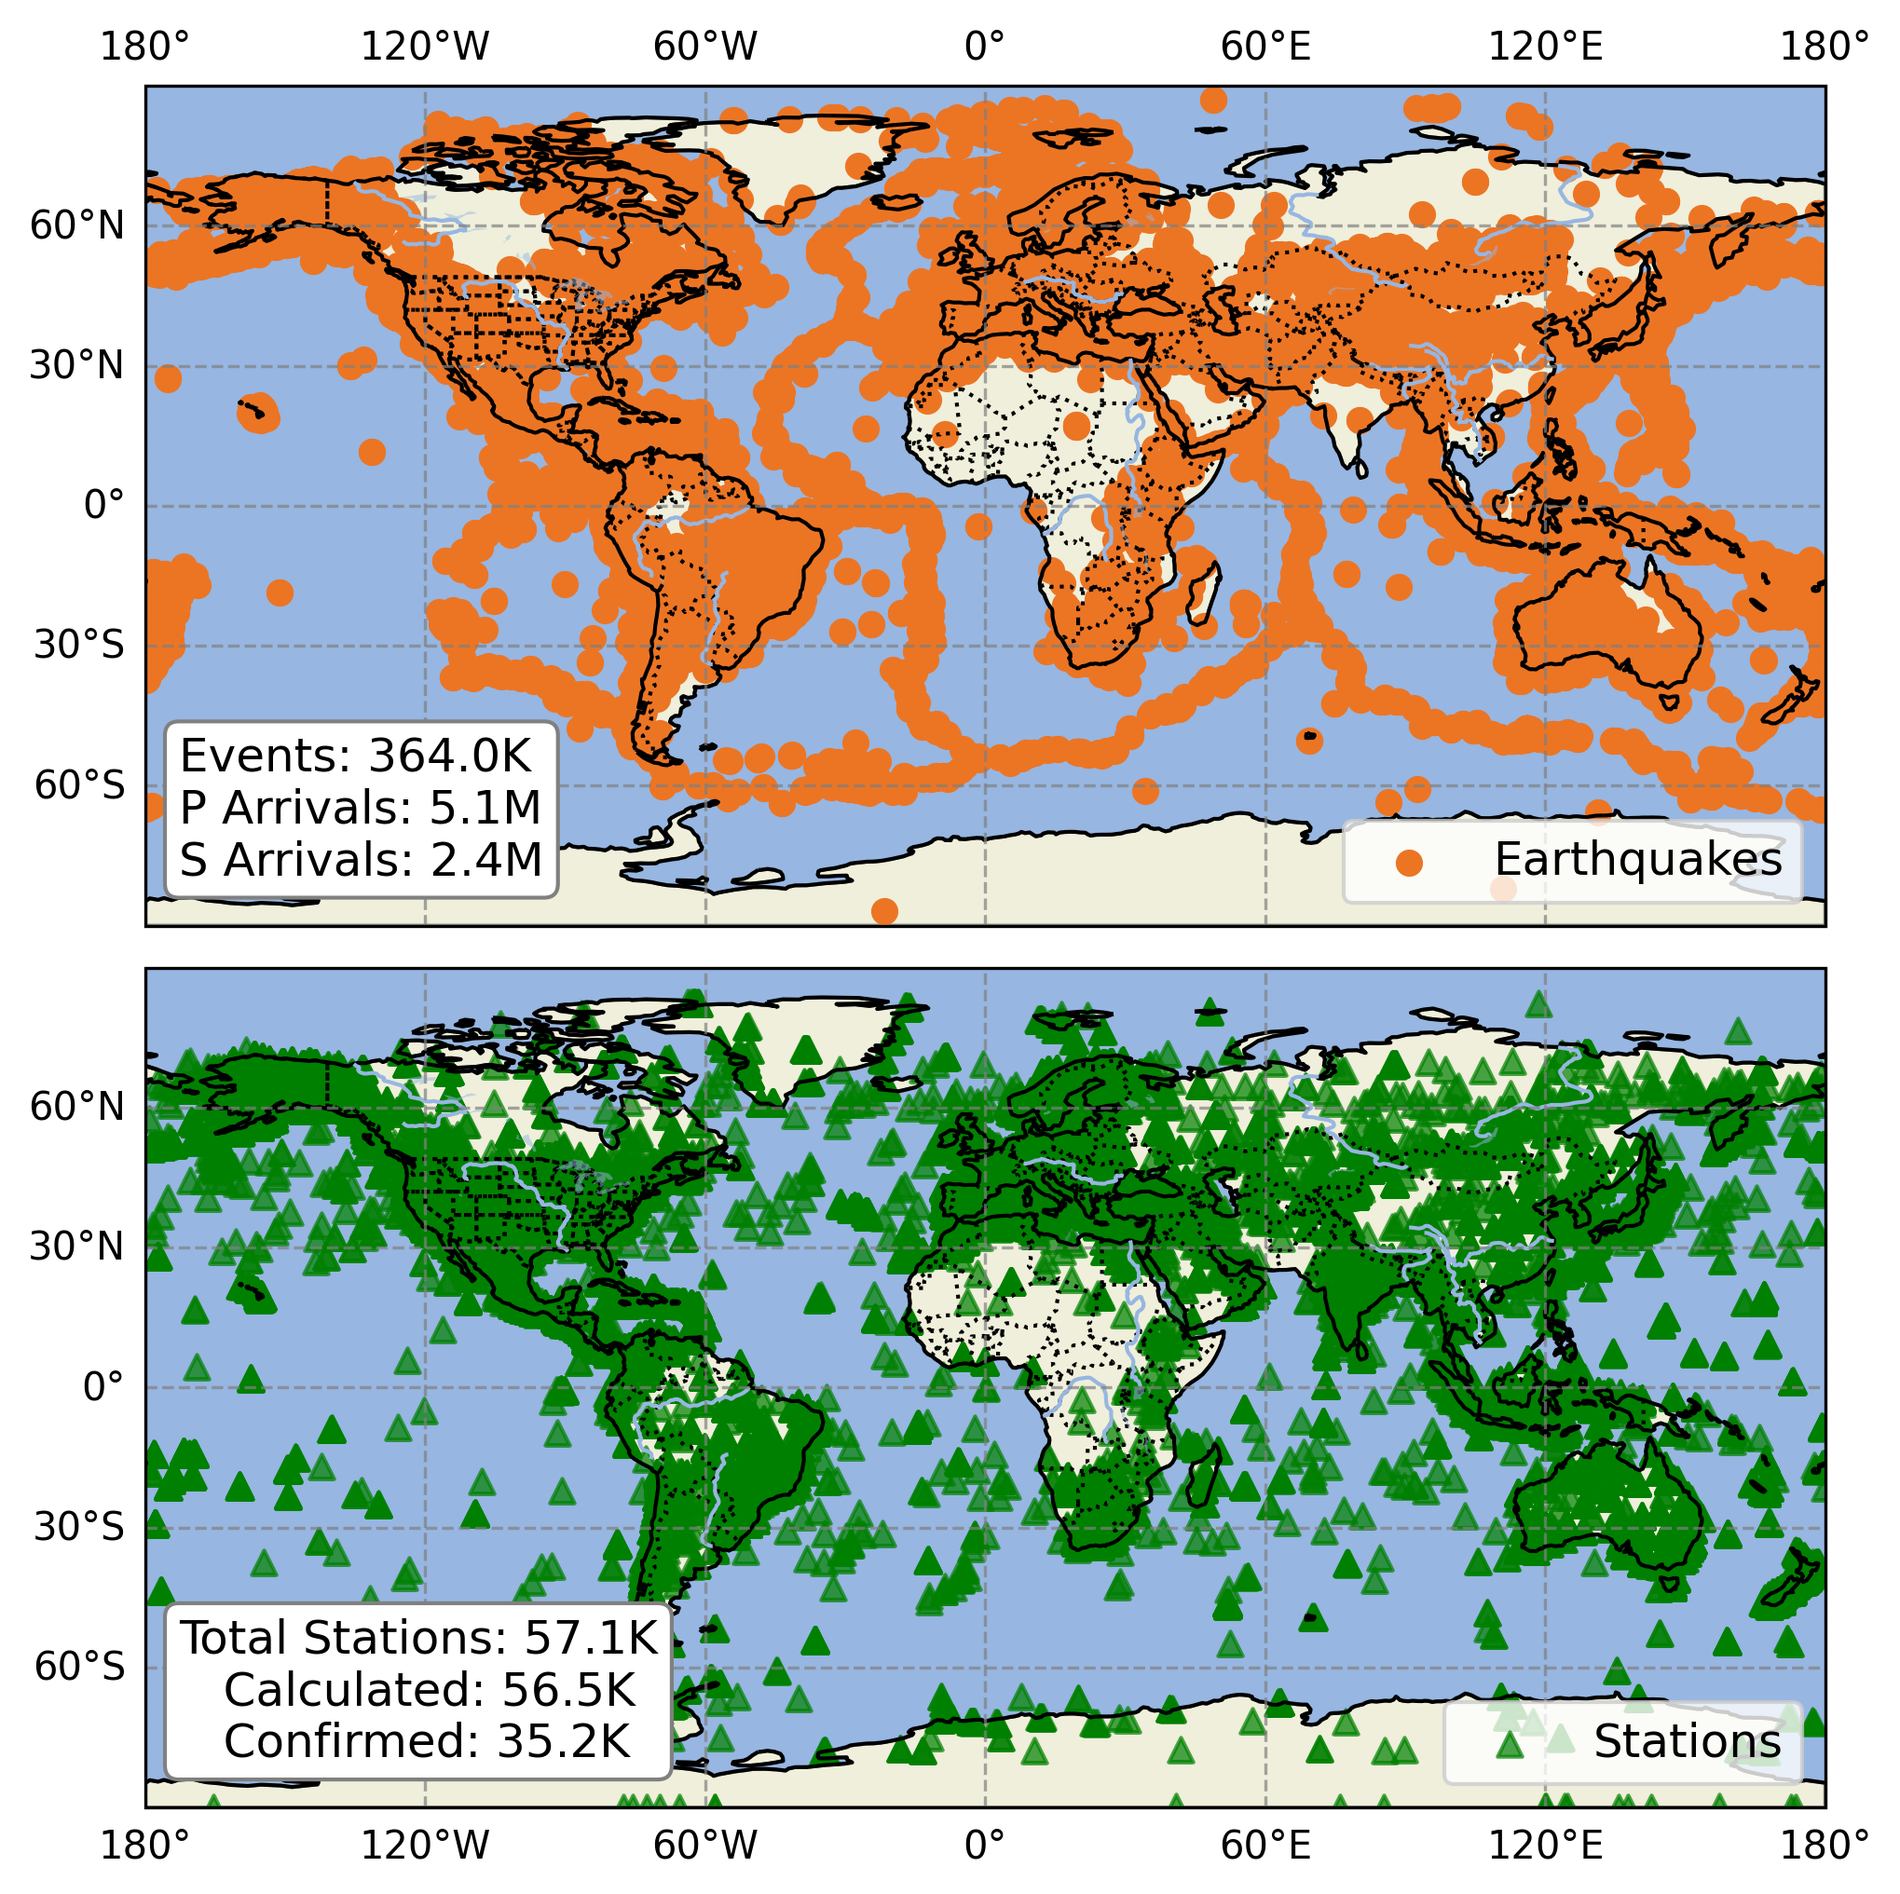
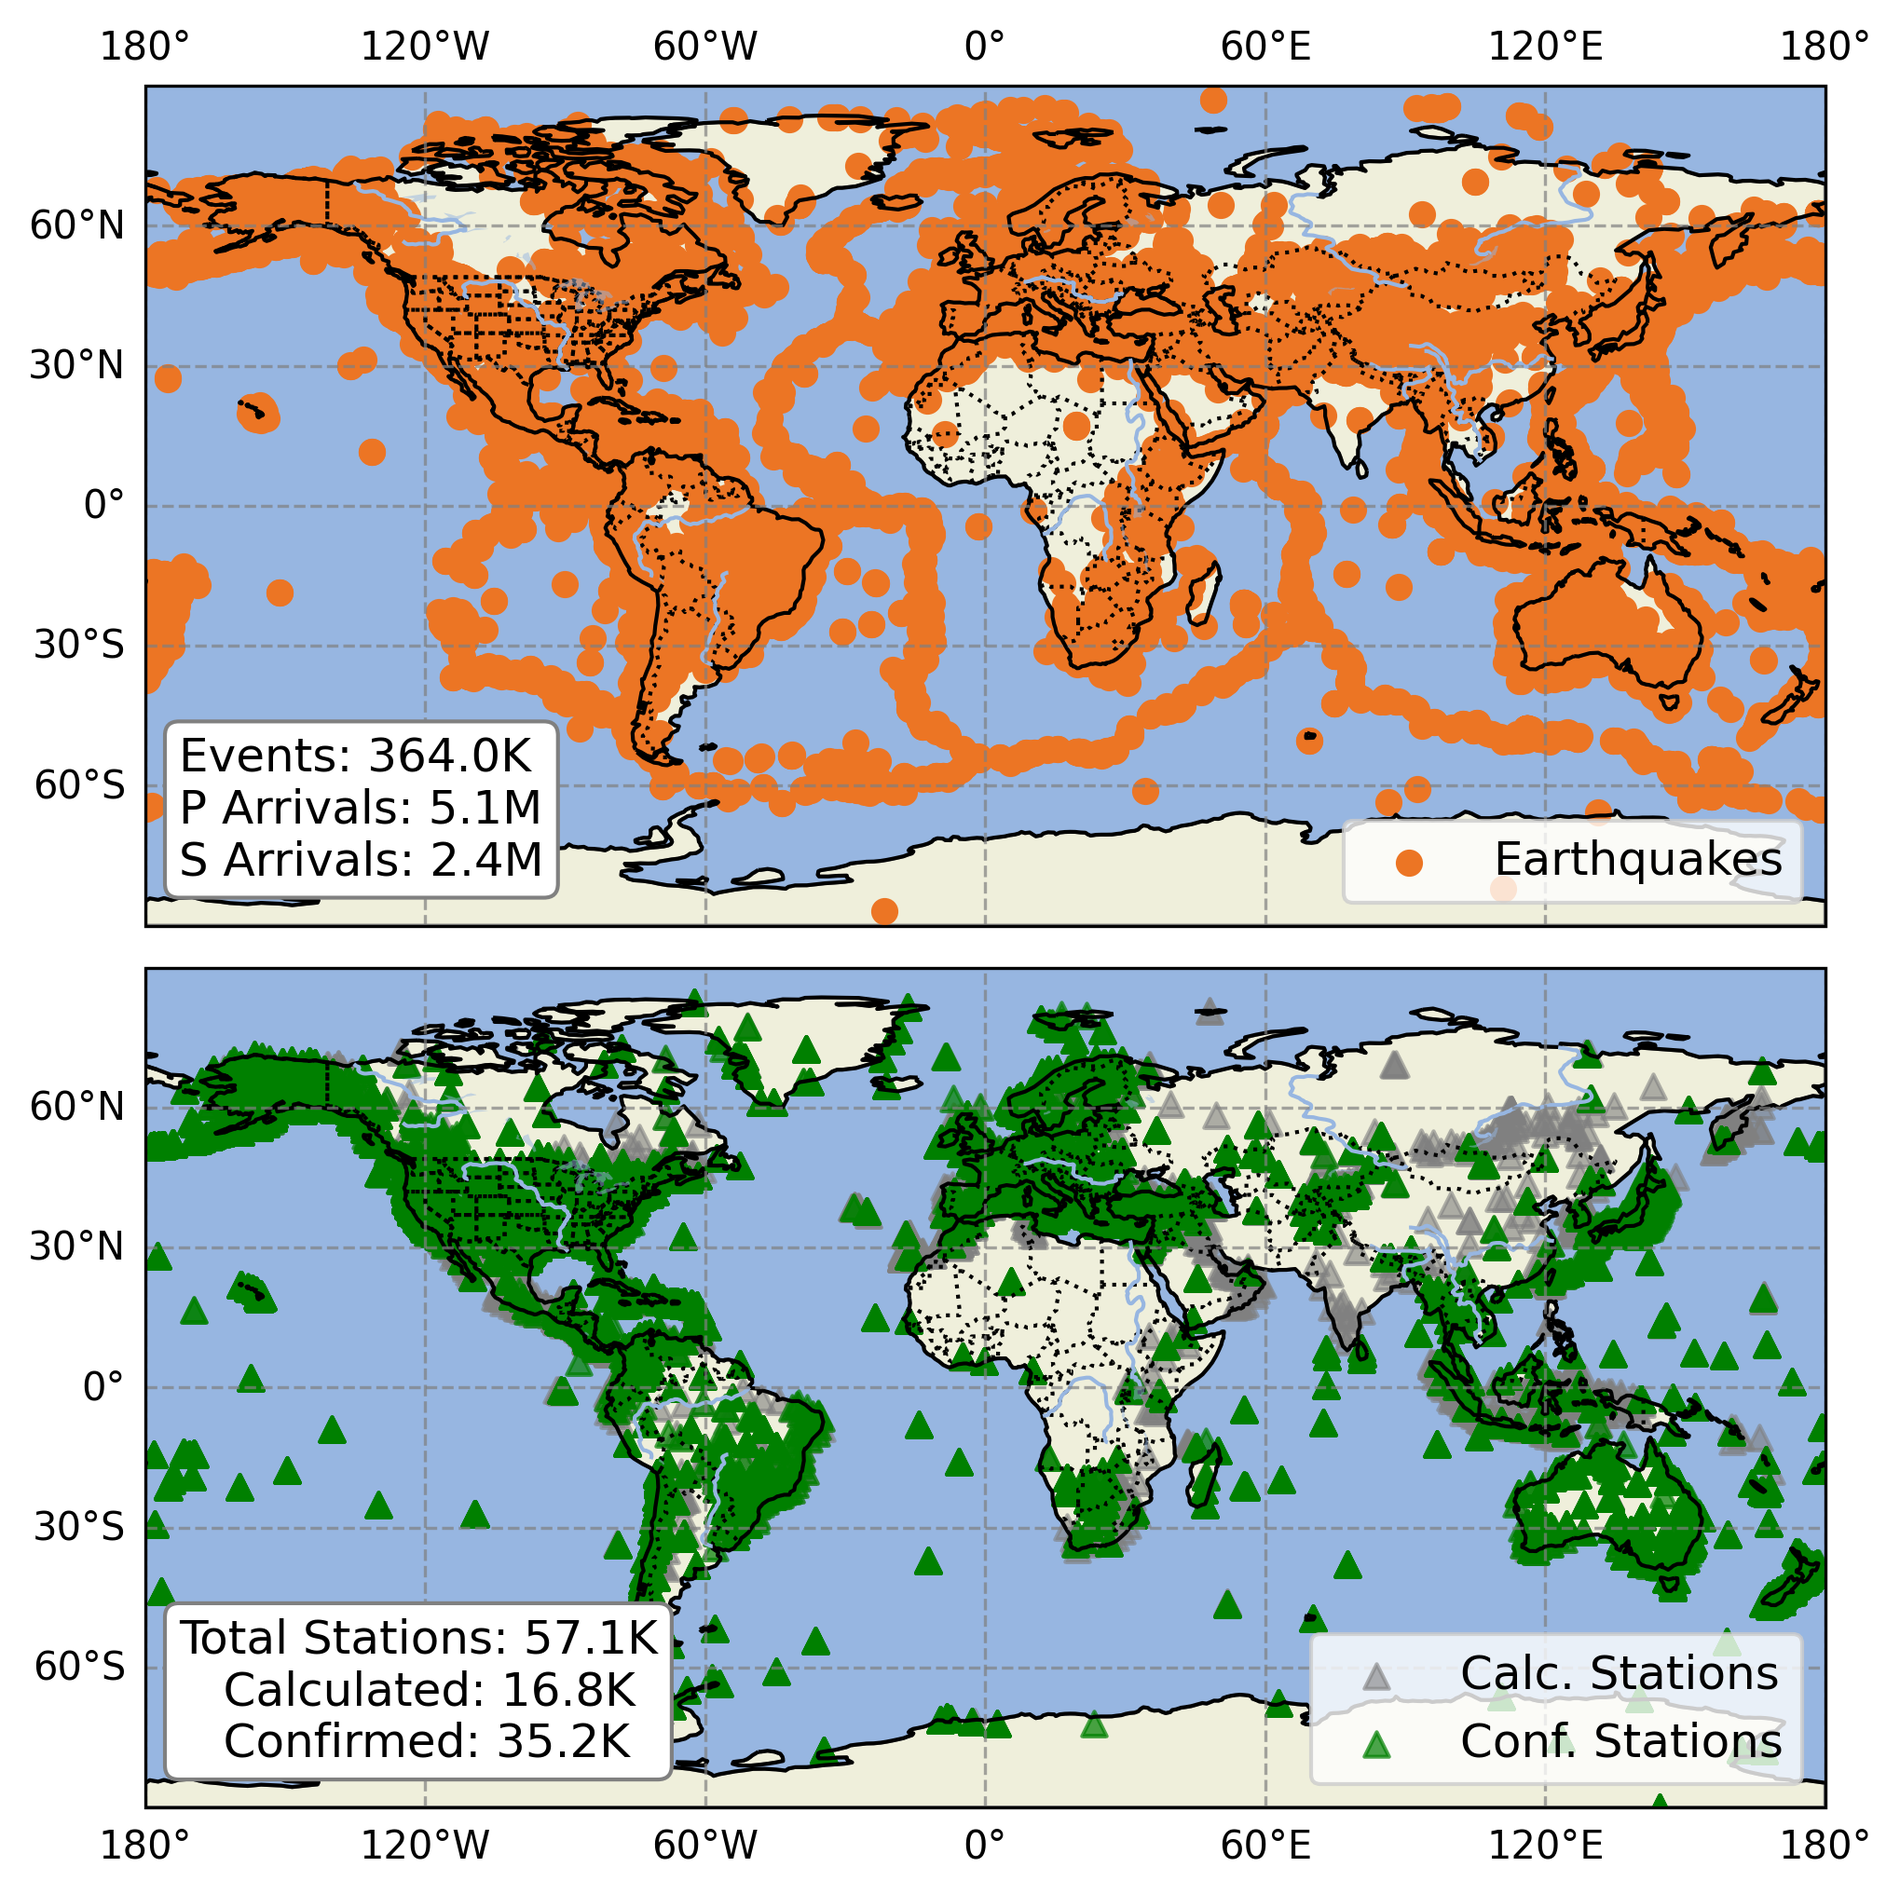
adds utdq 0.1

diff --git a/scripts/qc/check_stations.py b/scripts/qc/check_stations.py
@@ -1,0 +1,253 @@
+import os
+import glob
+import sqlite3
+import pandas as pd
+import numpy as np
+from pathlib import Path
+from obspy import UTCDateTime
+import concurrent.futures as cf
+import logging
+import datetime
+
+logger = logging.getLogger(__name__)
+
+
+def _load_station_dataframe(db_path, creation_starttime, creation_endtime, drop_duplicates):
+    """Load station index table from SQLite and apply filters."""
+
+    with sqlite3.connect(db_path) as conn:
+        df = pd.read_sql_query(
+            "SELECT * FROM '/stations/index'",
+            conn,
+            parse_dates=["creation_time"]
+        )
+
+    bool_cols = ["available", "confirmed", "calculated", "used"]
+    for col in bool_cols:
+        if col in df.columns:
+            df[col] = df[col].astype(bool)
+
+    if creation_starttime is not None:
+        df = df[pd.to_datetime(df["creation_time"]) >= pd.to_datetime(creation_starttime)]
+
+    if creation_endtime is not None:
+        df = df[pd.to_datetime(df["creation_time"]) <= pd.to_datetime(creation_endtime)]
+
+    if drop_duplicates:
+        df = df.drop_duplicates(
+            subset=["network", "station", "origin_id"],
+            ignore_index=True
+        )
+
+    return df
+
+
+def _collapse_dataframe(df: pd.DataFrame) -> dict:
+    """Reduce a station dataframe into a single summary dictionary."""
+
+    summary = {}
+    exclude_cols = {"dist_deg", "esaz", "used", "origin_id", "creation_time"}
+
+    for col in df.columns:
+        if col in exclude_cols:
+            continue
+
+        series = df[col]
+
+        if pd.api.types.is_float_dtype(series):
+            summary[col] = series.mean()
+            if "calculated" in col:
+                summary[f"{col}_std"] = series.std()
+
+        elif pd.api.types.is_bool_dtype(series):
+            summary[col] = series.any()
+
+        elif pd.api.types.is_integer_dtype(series):
+            summary[col] = series.max()
+            if "calculated" in col:
+                summary[f"{col}_std"] = series.std()
+
+        elif col in ["network", "station"]:
+            summary[col] = ",".join(series.unique())
+
+        else:
+            summary[col] = series.iloc[0]
+
+    return summary
+
+
+def _apply_thresholds(summary: dict, min_std: float, min_num_entries: int) -> dict:
+    """Invalidate calculated results if they do not meet quality thresholds."""
+
+    num_entries = summary.get("calculated_num_entries", 0)
+
+    if num_entries < min_num_entries:
+        summary["calculated"] = False
+
+    for key in ["calculated_latitude", "calculated_longitude"]:
+        std_key = f"{key}_std"
+
+        if std_key in summary:
+            std_val = summary.get(std_key)
+
+            if std_val is None or (not pd.isna(std_val) and std_val > min_std):
+                summary["calculated"] = False
+
+    if not summary.get("calculated", False):
+        for key in [
+            "calculated_latitude",
+            "calculated_longitude",
+            "calculated_latitude_std",
+            "calculated_longitude_std",
+            "calculated_num_entries",
+        ]:
+            summary[key] = np.nan
+
+    return summary
+
+
+def _relative_db_path(db_path: str) -> str:
+    """Extract relative path after the 'bank' directory."""
+
+    full_path = Path(db_path)
+
+    try:
+        relative = full_path.parts[full_path.parts.index("bank") + 1 :]
+        return "/".join(relative)
+    except ValueError:
+        return str(full_path)
+
+
+def _process_single_db(
+    db_path,
+    creation_starttime,
+    creation_endtime,
+    drop_duplicates,
+    min_std,
+    min_num_entries,
+):
+    """Process a single database file and return its summary."""
+
+    df = _load_station_dataframe(
+        db_path,
+        creation_starttime,
+        creation_endtime,
+        drop_duplicates,
+    )
+
+    if df.empty:
+        return None
+
+    summary = _collapse_dataframe(df)
+
+    summary["calculated_num_entries"] = int(len(df))
+    summary["db_path"] = _relative_db_path(db_path)
+    summary["creation_time"] = UTCDateTime.now().strftime("%Y-%m-%d %H:%M:%S.%f")
+
+    summary = _apply_thresholds(summary, min_std, min_num_entries)
+
+    return summary
+
+
+def get_stations_summary(
+    stations_folder,
+    creation_starttime=None,
+    creation_endtime=None,
+    drop_duplicates=True,
+    min_std=0.1,
+    min_num_entries=10,
+):
+
+    stations_paths = glob.glob(
+        os.path.join(stations_folder, ".**.db"),
+        recursive=True
+    )
+
+    logger.info(
+        f"Found {len(stations_paths)} station databases in {stations_folder}."
+    )
+
+    with cf.ThreadPoolExecutor(max_workers=None) as executor:
+        results = executor.map(
+            lambda path: _process_single_db(
+                path,
+                creation_starttime,
+                creation_endtime,
+                drop_duplicates,
+                min_std,
+                min_num_entries,
+            ),
+            stations_paths,
+        )
+
+    summaries = [r for r in results if r is not None]
+
+    return pd.DataFrame(summaries)
+
+def replace_stations_summary_to_bank(summary, bank_path):
+
+    ebank_index_path = os.path.join(bank_path, ".index.db")
+
+    if summary is not None:
+        logger.info(f"Updating stations summary in the event bank at {bank_path}")
+        with sqlite3.connect(ebank_index_path) as ev_con:
+            summary.to_sql(
+                            "/stations/index", ev_con, 
+                            if_exists='replace', index=False
+                        )
+            
+            now = datetime.datetime.now().timestamp()
+
+            # put it in a dataframe
+            df = pd.DataFrame({"last_updated": [now]})
+            df.to_sql(
+                    "/stations/last_updated", ev_con,
+                    if_exists="replace", index=False
+                )
+        logger.info(f"Stations summary updated successfully.")
+
+def replace_stations_to_multiple_banks(parent_folder):
+
+    bank_folders = [f.path for f in os.scandir(parent_folder) if f.is_dir()]
+
+    for bank_path in bank_folders:
+        print(f"Processing bank at {bank_path}")
+        stations_folder = os.path.join(bank_path,".stations")
+        print(f"Stations folder: {stations_folder}")
+        summary = get_stations_summary(stations_folder)
+        print(f"Summary shape: {summary.shape}")
+        replace_stations_summary_to_bank(summary, bank_path)
+        print(f"Finished processing bank at {bank_path}")
+
+if __name__ == "__main__":
+    logger = logging.getLogger(__name__)
+    logging.basicConfig(level=logging.INFO)
+    # bank_path ="/groups/igonin/ecastillo/test/bank/RSNC"
+
+    # stations_folder = os.path.join(bank_path,".stations")
+    # df_summary = get_stations_summary(stations_folder)
+    # # print(df_summary[["calculated","calculated_longitude",
+    # #                 "calculated_latitude","calculated_num_entries"]])
+    # # print(df_summary[["calculated","calculated_num_entries"]])
+    # print(df_summary.describe())
+
+
+
+    # replace_stations_summary_to_bank(df_summary, bank_path)
+
+    # parent_folder = "/groups/igonin/ecastillo/test/bank"
+    # replace_stations_to_multiple_banks(parent_folder)
+
+    db_path = "/groups/igonin/ecastillo/UTDQuake/bank/uu/.index.db"
+    # db_path = "/groups/igonin/ecastillo/test/bank/RSNC/.index.db"
+    conn = sqlite3.connect(db_path)
+    df = pd.read_sql_query("SELECT * FROM '/stations/index'", conn,
+                            parse_dates="creation_time")
+    print(df)
+    # print(df.describe())
+
+    
+    # parent_folder = "/groups/igonin/ecastillo/test/bank"
+    # parent_folder = "/groups/igonin/ecastillo/UTDQuake/bank"
+    # replace_stations_to_multiple_banks(parent_folder)
+    

diff --git a/utdquake/utils/plot.py b/utdquake/utils/plot.py
@@ -500,6 +500,7 @@ def plot_utdq_overview(
     events: pd.DataFrame,
     stations: pd.DataFrame,
     analysis: Dict[str, Any],
+    consider_calculated_stations: bool=True,
     region: Optional[Tuple[float, float, float, float]] = None,
     savepath: Optional[str] = None,
     show: bool = False,
@@ -517,6 +518,8 @@ def plot_utdq_overview(
         Must contain 'longitude' and 'latitude'.
     analysis : dict
         Summary statistics (events, arrivals, stations).
+    consider_calculated_stations : bool, optional
+        If True, also plot calculated stations (if available). Defaults to True.
     region : tuple or None, optional
         Map extent as (lon_min, lon_max, lat_min, lat_max).
         Defaults to global view.
@@ -582,16 +585,47 @@ def plot_utdq_overview(
     gl2.left_labels = True
     gl2.bottom_labels = True
 
+    # Mask for confirmed stations (valid official coordinates)
+    confirmed_mask = stations[['confirmed_longitude', 
+                               'confirmed_latitude']].notna().all(axis=1)
+    
+    # Plot optional calculated stations first (background layer)
+    if consider_calculated_stations and \
+       'calculated_latitude' in stations.columns and \
+       'calculated_longitude' in stations.columns:
+
+        # Only plot rows where calculated values exist
+        calculated_mask = (
+                            ~confirmed_mask &
+                            stations[['calculated_latitude', 
+                                    'calculated_longitude']].notna().all(axis=1)
+                        )
+        
+        ax2.scatter(
+                    stations.loc[calculated_mask, 
+                                 'calculated_longitude'],
+                    stations.loc[calculated_mask, 
+                                 'calculated_latitude'],
+                    marker="^",
+                    c="gray",
+                    s=40,
+                    alpha=0.6,
+                    transform=ccrs.PlateCarree(),
+                    label="Calc. Stations"
+                )
+
     ax2.scatter(
-        stations['calculated_longitude'],
-        stations['calculated_latitude'],
+        stations.loc[confirmed_mask, 'confirmed_longitude'],
+        stations.loc[confirmed_mask, 'confirmed_latitude'],
         marker="^",
         c="green",
         s=40,
         alpha=0.7,
         transform=ccrs.PlateCarree(),
-        label="Stations"
+        label="Conf. Stations"
     )
+
+    
     ax2.legend(loc="lower right", fontsize=12)
 
     ax2.text(

diff --git a/utdquake/core/utdquake.py b/utdquake/core/utdquake.py
@@ -150,7 +150,8 @@ class Dataset:
         """Return a Network object for a given network name."""
         return Network(name)
     
-    def plot_overview(self, savepath=None, show=True):
+    def plot_overview(self, consider_calculated_stations: bool=True,
+                    savepath=None, show=True):
         """
         Plot a comprehensive overview of UTDQuake dataset.
 
@@ -158,6 +159,8 @@ class Dataset:
 
         Parameters
         ----------
+        consider_calculated_stations : bool, optional
+            If True, also plot calculated stations (if available). Defaults to True.
         savepath : str or None
             Path to save the figure. If None, figure is not saved.
         show : bool
@@ -167,6 +170,7 @@ class Dataset:
                             stations=self.stations,
                             analysis=self.description,
                             savepath=savepath,
+                            consider_calculated_stations=consider_calculated_stations,
                             show=show)
 
 class Network:

diff --git a/scripts/fig/utdq_overview.py b/scripts/fig/utdq_overview.py
@@ -1,0 +1,26 @@
+import os
+os.environ["HF_DATASETS_PARALLELISM"] = "false"
+os.environ["OMP_NUM_THREADS"] = "1"
+os.environ["MKL_NUM_THREADS"] = "1"
+os.environ["UTDQUAKE_ROOT"] = "/groups/igonin/ecastillo/UTDQuake"
+
+from pathlib import Path
+import utdquake as utdq
+
+
+figs_path = Path(__file__).parent.parent.parent / "figures"
+print(f"Saving figure to {figs_path}")
+
+
+# utdq_fig = utdq.Dataset().plot_overview(savepath=figs_path / "utdquake.png")
+dataset = utdq.Dataset()
+dataset.plot_overview(savepath=figs_path / "utdquake_overview.png",
+                    consider_calculated_stations= True)
+
+# if stations_type in ["calculated"]:
+#     #qc 
+#     stations = stations.drop_duplicates(subset=["network", 
+#                                                 "station"])
+#     stations = stations[stations["num_entries"]>10]
+#     stations = stations[stations["calculated_latitude_iqr"]<0.1]
+#     stations = stations[stations["calculated_longitude_iqr"]<0.1]

diff --git a/test/simple_test.py b/test/simple_test.py
@@ -19,6 +19,8 @@ network_data = dataset.networks
 network_names = network_data["network"].tolist()
 
 network = dataset.get_network(name=network_names[0])
+# network = dataset.get_network(name="KRSZO")
+
 
 # events
 events = network.events
